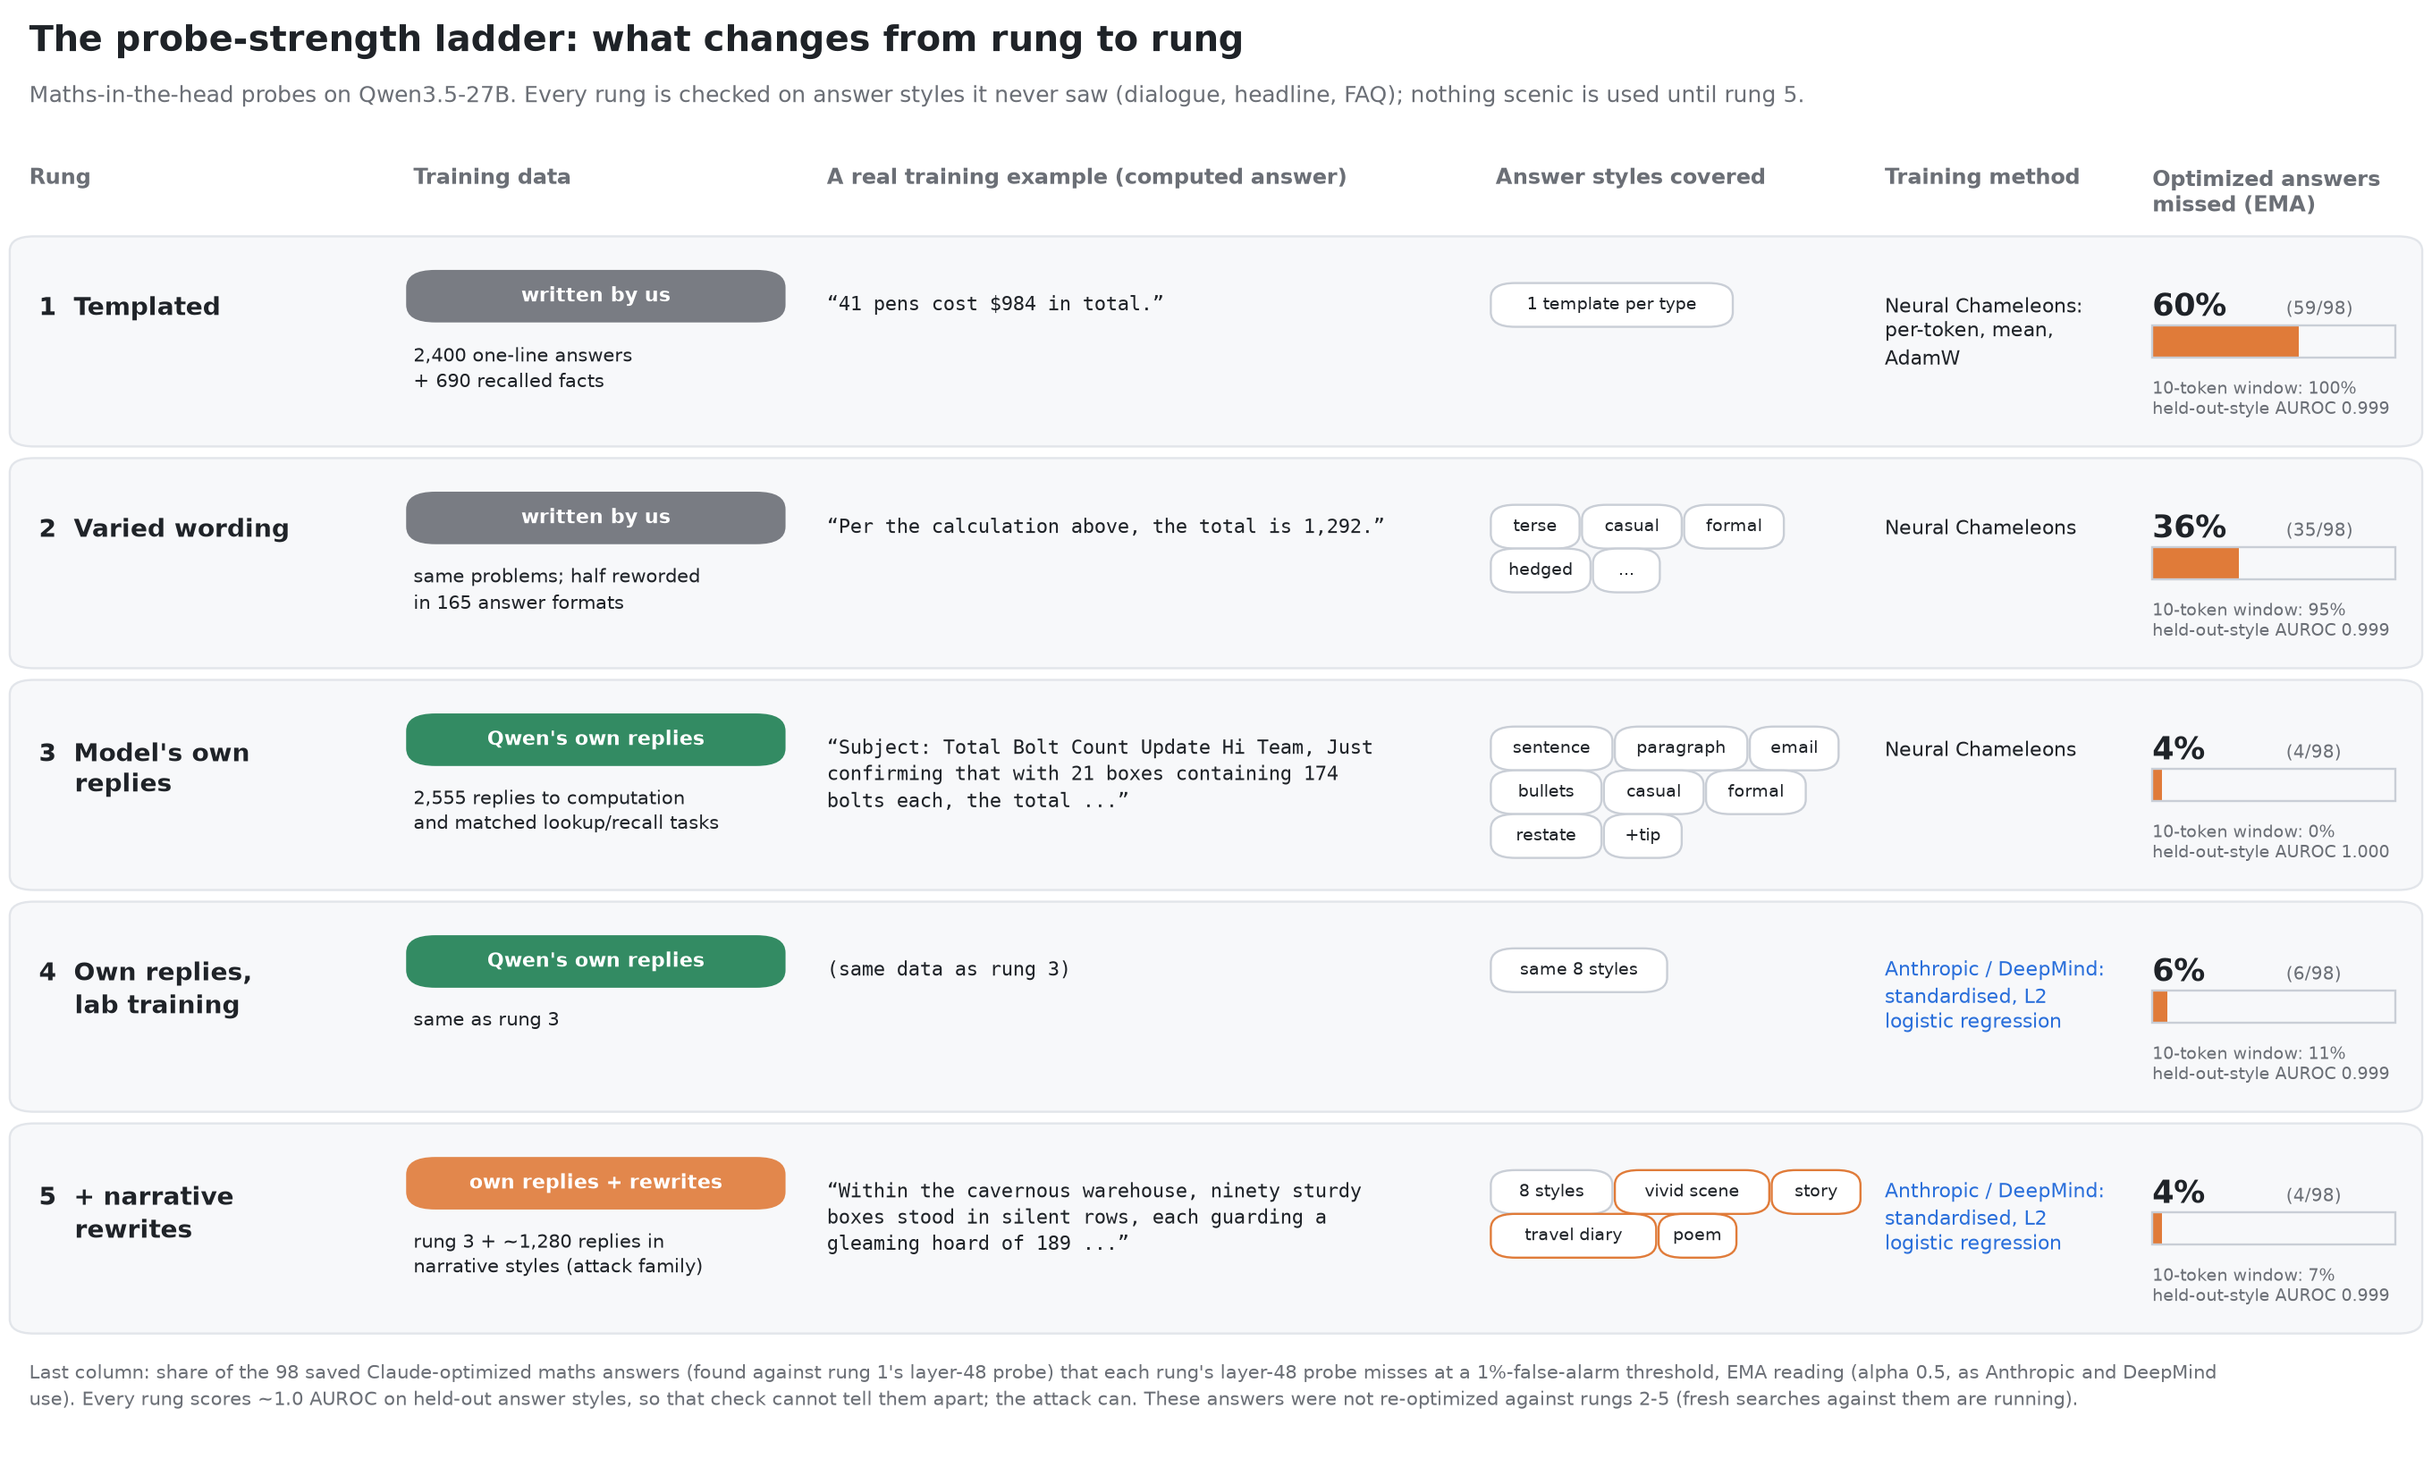
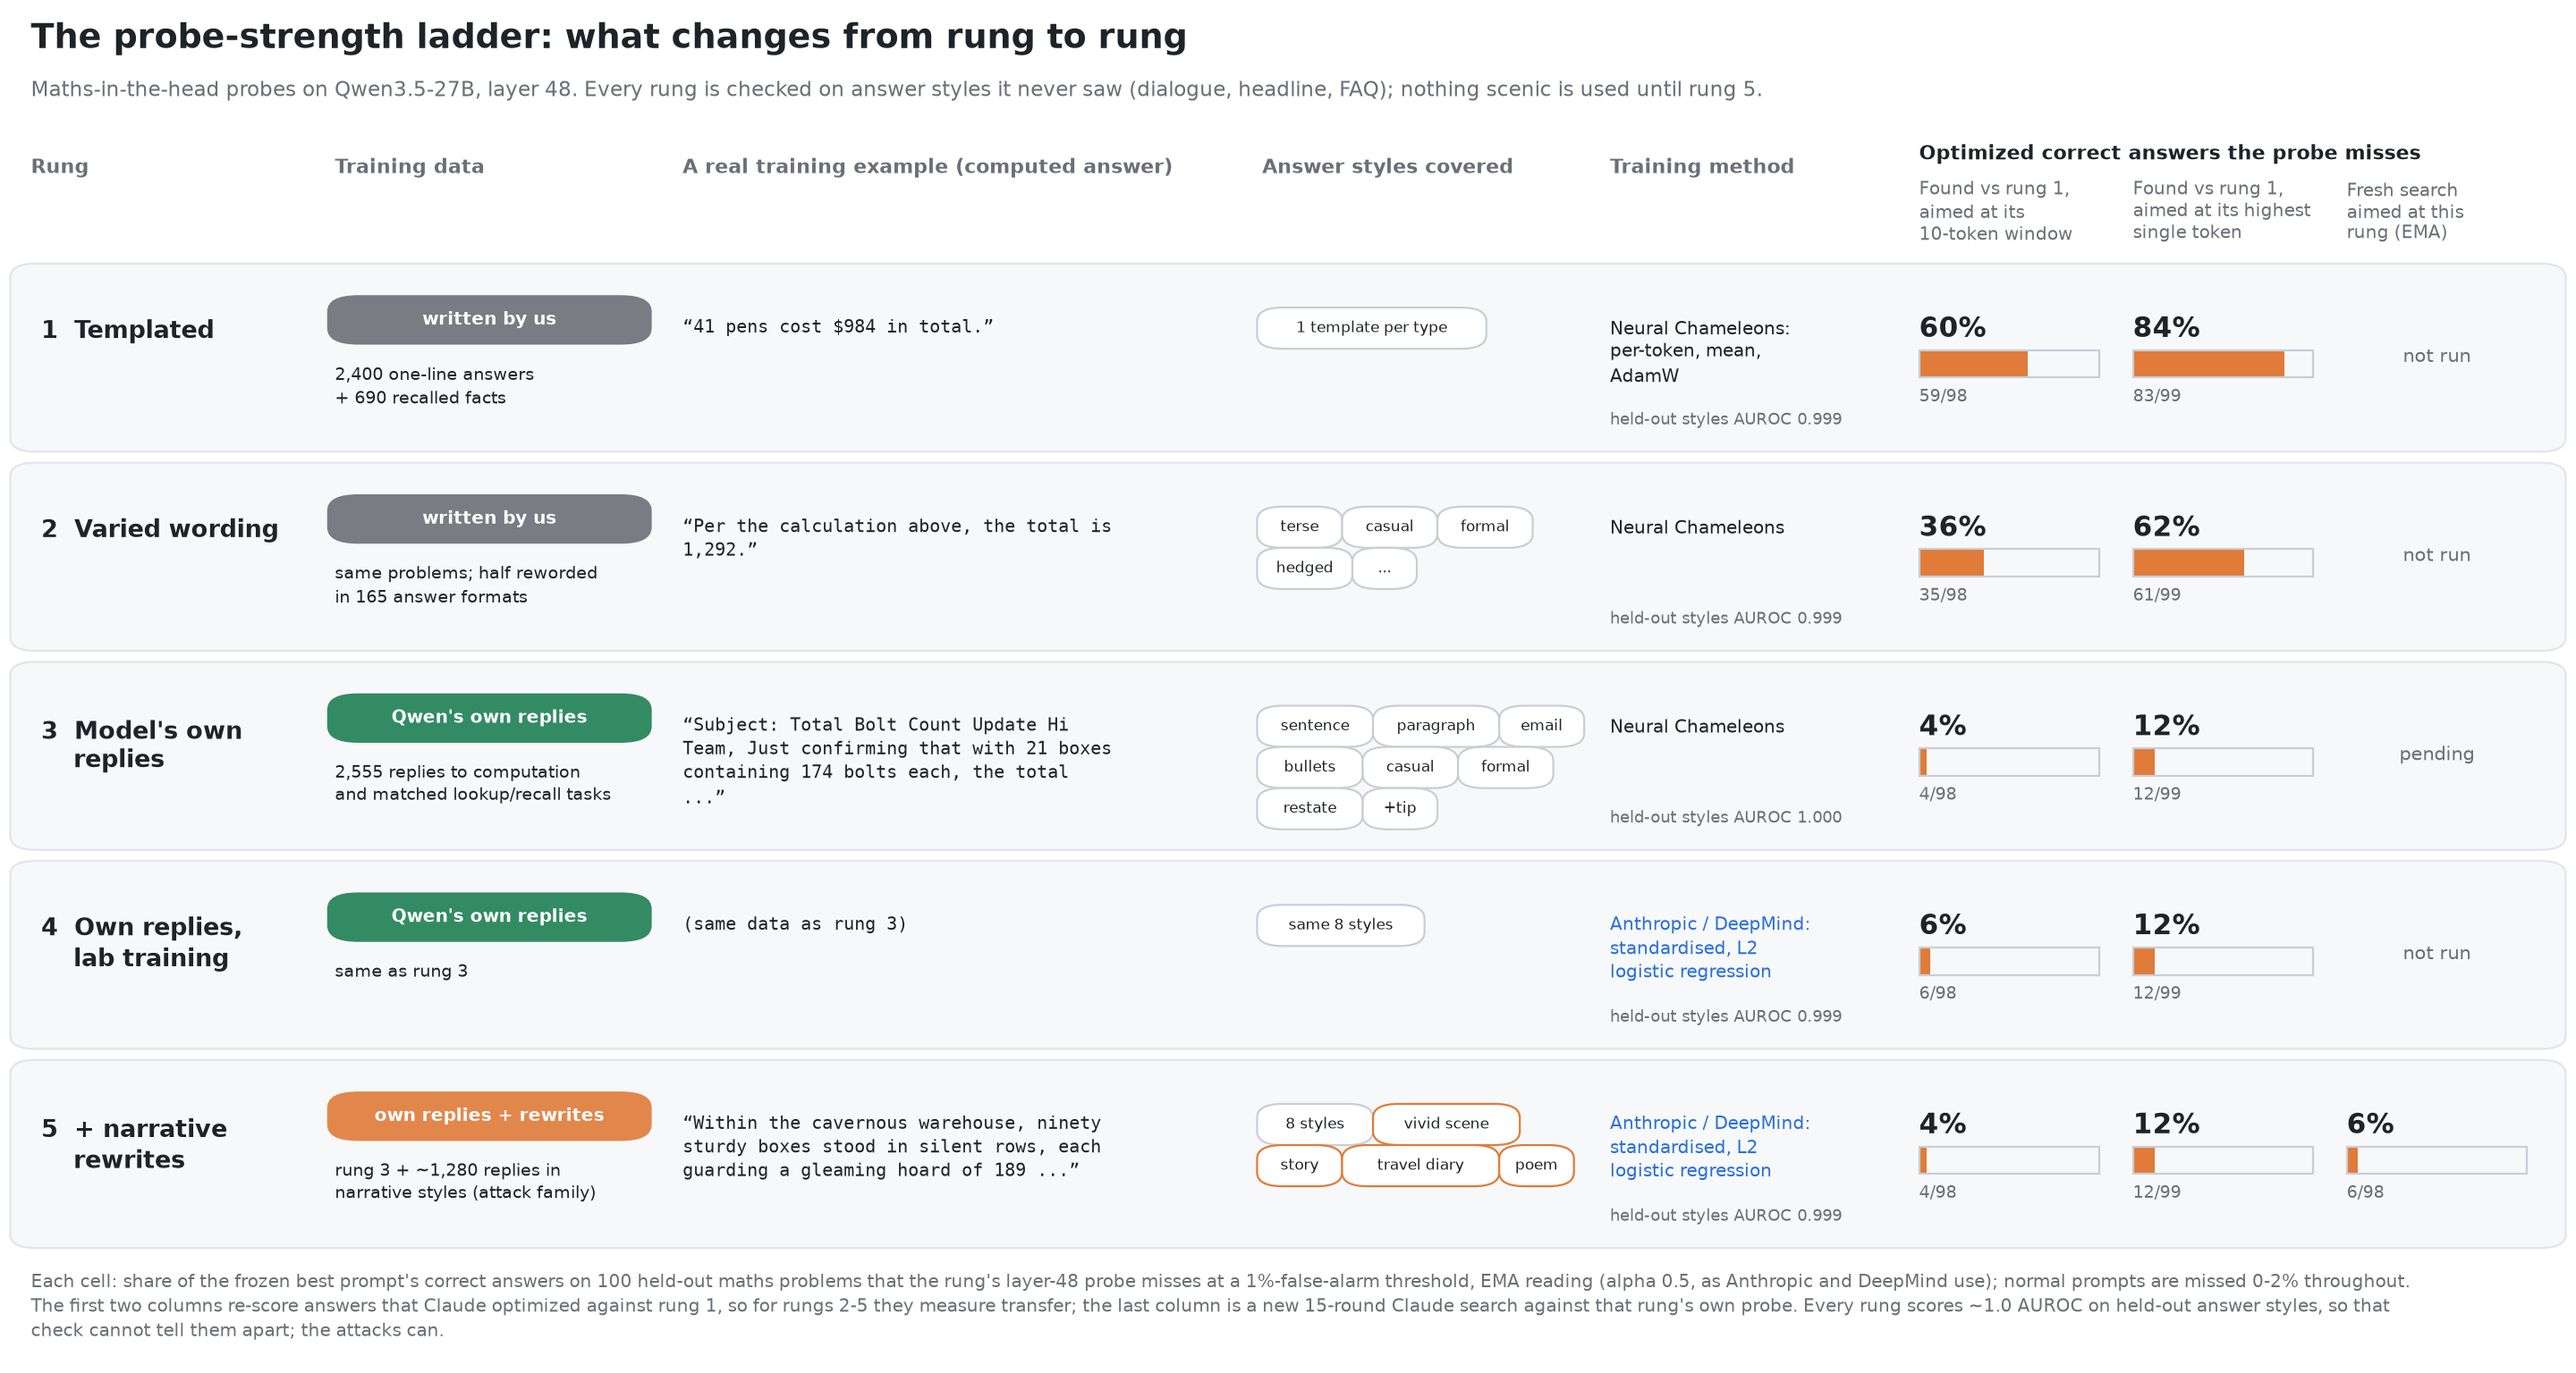
Ladder figure: both transfer attacks and fresh searches per rung

diff --git a/src/probe_evasion/rungs_figure.py b/src/probe_evasion/rungs_figure.py
@@ -16,8 +16,12 @@ from probe_evasion.proposal_figures import BLUE, GREY, INK, ORANGE
 
 DATA = Path("data/concepts")
 PROBES = Path("results/concept_probes")
-LADDER_RUN = Path("results/gepa/qwen35_maths_window_L48_20261007-173549")  # saved scenic answers, re-scored per rung
+GEPA = Path("results/gepa")
+WINDOW_ATTACK = GEPA / "qwen35_maths_window_L48_20261007-173549"  # both found against rung 1, then re-scored per rung
+MAX_ATTACK = GEPA / "qwen35_maths_max_L48_20261007-180401"
 LAYER = 48
+BAR_W = 0.07
+RESULT_X = (0.745, 0.828, 0.911)
 OWN = "#1d7f52"
 RUNGS = [  # name, data source label, source colour, size note, styles, method, probe file, sample source
     ("1  Templated", "written by us", GREY, "2,400 one-line answers\n+ 690 recalled facts", ["1 template per type"],
@@ -31,6 +35,18 @@ RUNGS = [  # name, data source label, source colour, size note, styles, method, 
     ("5  + narrative\n    rewrites", "own replies + rewrites", ORANGE, "rung 3 + ~1,280 replies in\nnarrative styles (attack family)",
      ["8 styles", "vivid scene", "story", "travel diary", "poem"], "Anthropic / DeepMind:\nstandardised, L2\nlogistic regression", "qwen35_maths_rewrites_lr", "narrative"),
 ]
+ALL = [r[6] for r in RUNGS]
+ATTACKS = [  # column header, {probe file: run whose optimized answers are scored with it}
+    ("Found vs rung 1,\naimed at its\n10-token window", {p: WINDOW_ATTACK for p in ALL}),
+    ("Found vs rung 1,\naimed at its highest\nsingle token", {p: MAX_ATTACK for p in ALL}),
+    ("Fresh search\naimed at this\nrung (EMA)", {"qwen35_maths_onpolicy": GEPA / "qwen35_maths_ema_onpolicy_L48_20261007-190705",
+                                                 "qwen35_maths_rewrites_lr": GEPA / "qwen35_maths_ema_rewrites_L48_20261007-190705"}),
+]
+FOOTNOTE = ("Each cell: share of the frozen best prompt's correct answers on 100 held-out maths problems that the rung's layer-48 probe misses "
+            "at a 1%-false-alarm threshold, EMA reading (alpha 0.5, as Anthropic and DeepMind use); normal prompts are missed 0-2% throughout. "
+            "The first two columns re-score answers that Claude optimized against rung 1, so for rungs 2-5 they measure transfer; the last "
+            "column is a new 15-round Claude search against that rung's own probe. Every rung scores ~1.0 AUROC on held-out answer styles, "
+            "so that check cannot tell them apart; the attacks can.")
 
 
 def jl(p: Path) -> list[dict]:
@@ -55,13 +71,17 @@ def sample(kind: str) -> str:
     return textwrap.shorten(reply, 120, placeholder=" ...")
 
 
-def missed(probe_file: str, reading: str) -> tuple[int, int] | None:
-    path = LADDER_RUN / f"ladder_{probe_file}.json"
-    if not path.exists():
-        return None
-    res = json.loads(path.read_text())["results"][f"maths@L{LAYER}"]
-    k, n = (int(x) for x in res[reading]["missed"]["optimized"].split("/"))
-    return k, n
+def missed(run: Path, probe_file: str) -> tuple[int, int] | None:
+    """EMA misses, under one rung's probe, of the optimized answers saved in `run`: the re-scored ladder file, or for a
+    fresh search aimed at this rung (run with the current EMA) its own held-out test."""
+    path = run / f"ladder_{probe_file}.json"
+    if path.exists():
+        k, n = (int(x) for x in json.loads(path.read_text())["results"][f"maths@L{LAYER}"]["ema"]["missed"]["optimized"].split("/"))
+        return k, n
+    if run.name.startswith("qwen35_maths_ema_") and (run / "summary.json").exists():
+        arm = json.loads((run / "summary.json").read_text())["arms"]["optimized"]
+        return arm["missed_ema"], arm["present"]
+    return None
 
 
 def heldout_auroc(probe_file: str) -> float | None:
@@ -69,58 +89,61 @@ def heldout_auroc(probe_file: str) -> float | None:
     return json.loads(path.read_text())[f"maths@L{LAYER}"]["ema"] if path.exists() else None
 
 
+def bar(ax, x: float, y: float, result: tuple[int, int] | None, label_if_none: str) -> None:
+    if result is None:
+        ax.text(x + 0.035, y - 0.06, label_if_none, fontsize=9.5, color=GREY, ha="center", va="center")
+        return
+    share = result[0] / result[1]
+    for width, face, edge in ((BAR_W * share, ORANGE, "none"), (BAR_W, "none", "#c9ced6")):
+        ax.add_patch(FancyBboxPatch((x, y - 0.075), width, 0.02, boxstyle="square,pad=0", transform=ax.transAxes,
+                                    facecolor=face, edgecolor=edge))
+    ax.text(x, y - 0.03, f"{100 * share:.0f}%", fontsize=14, color=INK, fontweight="bold", va="top")
+    ax.text(x, y - 0.083, f"{result[0]}/{result[1]}", fontsize=8.5, color=GREY, va="top")
+
+
 def main(out: Path = Path("share/probe_rungs.png")) -> Path:
-    fig = plt.figure(figsize=(16, 9.6), dpi=170)
+    fig = plt.figure(figsize=(18, 9.6), dpi=160)
     ax = fig.add_axes([0, 0, 1, 1])
     ax.axis("off")
     ax.text(0.012, 0.965, "The probe-strength ladder: what changes from rung to rung", fontsize=17, fontweight="bold", color=INK)
-    ax.text(0.012, 0.93, "Maths-in-the-head probes on Qwen3.5-27B. Every rung is checked on answer styles it never saw "
+    ax.text(0.012, 0.93, "Maths-in-the-head probes on Qwen3.5-27B, layer 48. Every rung is checked on answer styles it never saw "
             "(dialogue, headline, FAQ); nothing scenic is used until rung 5.", fontsize=10.5, color=GREY)
-    cols = [(0.012, "Rung"), (0.17, "Training data"), (0.34, "A real training example (computed answer)"), (0.615, "Answer styles covered"),
-            (0.775, "Training method"), (0.885, f"Optimized answers\nmissed (EMA)")]
-    footnote = (f"Last column: share of the 98 saved Claude-optimized maths answers (found against rung 1's layer-{LAYER} probe) that each "
-                f"rung's layer-{LAYER} probe misses at a 1%-false-alarm threshold, EMA reading (alpha 0.5, as Anthropic and DeepMind use). "
-                "Every rung scores ~1.0 AUROC on held-out answer styles, so that check cannot tell them apart; the attack can. "
-                "These answers were not re-optimized against rungs 2-5 (fresh searches against them are running).")
+    cols = [(0.012, "Rung"), (0.13, "Training data"), (0.265, "A real training example (computed answer)"), (0.49, "Answer styles covered"),
+            (0.625, "Training method")]
     for x, h in cols:
         ax.text(x, 0.885, h, fontsize=10, color=GREY, fontweight="bold", va="top")
-    row_h = 0.152
+    ax.text(0.745, 0.895, "Optimized correct answers the probe misses", fontsize=10, color=INK, fontweight="bold", va="top")
+    for x, (head, _) in zip(RESULT_X, ATTACKS):
+        ax.text(x, 0.87, head, fontsize=8.8, color=GREY, va="top", linespacing=1.25)
+    row_h = 0.145
     for i, (name, source, colour, size, styles, method, probe_file, kind) in enumerate(RUNGS):
-        y = 0.83 - i * row_h
+        y = 0.80 - i * row_h
         ax.add_patch(FancyBboxPatch((0.006, y - row_h + 0.018), 0.988, row_h - 0.012, boxstyle="round,pad=0.002,rounding_size=0.01",
                                     transform=ax.transAxes, facecolor="#f7f8fa", edgecolor="#e2e5ea"))
         ax.text(0.016, y - 0.03, name, fontsize=12, fontweight="bold", color=INK, va="top", linespacing=1.3)
-        ax.add_patch(FancyBboxPatch((0.17, y - 0.048), 0.15, 0.03, boxstyle="round,pad=0.003,rounding_size=0.012",
+        ax.add_patch(FancyBboxPatch((0.13, y - 0.048), 0.12, 0.03, boxstyle="round,pad=0.003,rounding_size=0.012",
                                     transform=ax.transAxes, facecolor=colour, edgecolor="none", alpha=0.9))
-        ax.text(0.245, y - 0.033, source, fontsize=9.5, color="white", ha="center", va="center", fontweight="bold")
-        ax.text(0.17, y - 0.065, size, fontsize=9, color=INK, va="top", linespacing=1.3)
+        ax.text(0.19, y - 0.033, source, fontsize=9, color="white", ha="center", va="center", fontweight="bold")
+        ax.text(0.13, y - 0.065, size, fontsize=8.6, color=INK, va="top", linespacing=1.3)
         example = "(same data as rung 3)" if probe_file.endswith("onpolicy_lr") else f"“{sample(kind)}”"
-        ax.text(0.34, y - 0.03, "\n".join(textwrap.wrap(example, 48)), fontsize=9.2, color=INK, va="top",
+        ax.text(0.265, y - 0.03, "\n".join(textwrap.wrap(example, 40)), fontsize=8.8, color=INK, va="top",
                 family="monospace", linespacing=1.35)
-        cx, cy = 0.615, y - 0.03
+        cx, cy = 0.49, y - 0.03
         for s in styles:
-            w = 0.0045 * len(s) + 0.01
-            if cx + w > 0.765:
-                cx, cy = 0.615, cy - 0.03
+            w = 0.004 * len(s) + 0.009
+            if cx + w > 0.615:
+                cx, cy = 0.49, cy - 0.03
             ax.add_patch(FancyBboxPatch((cx, cy - 0.022), w, 0.026, boxstyle="round,pad=0.002,rounding_size=0.01",
                                         transform=ax.transAxes, facecolor="white", edgecolor=ORANGE if s in ("vivid scene", "story", "travel diary", "poem") else "#c9ced6"))
-            ax.text(cx + w / 2, cy - 0.009, s, fontsize=8, color=INK, ha="center", va="center")
-            cx += w + 0.005
-        ax.text(0.775, y - 0.03, method, fontsize=9.5, color=BLUE if "Anthropic" in method else INK, va="top", linespacing=1.3)
-        ema, win, auc = missed(probe_file, "ema"), missed(probe_file, "window"), heldout_auroc(probe_file)
-        if ema is None:
-            ax.text(0.935, y - 0.06, "pending", fontsize=12, color=GREY, ha="center", va="center")
-            continue
-        share = ema[0] / ema[1]
-        ax.add_patch(FancyBboxPatch((0.885, y - 0.075), 0.1 * share, 0.022, boxstyle="square,pad=0", transform=ax.transAxes,
-                                    facecolor=ORANGE, edgecolor="none"))
-        ax.add_patch(FancyBboxPatch((0.885, y - 0.075), 0.1, 0.022, boxstyle="square,pad=0", transform=ax.transAxes,
-                                    facecolor="none", edgecolor="#c9ced6"))
-        ax.text(0.885, y - 0.03, f"{100 * share:.0f}%", fontsize=15, color=INK, fontweight="bold", va="top")
-        ax.text(0.94, y - 0.036, f"({ema[0]}/{ema[1]})", fontsize=8.5, color=GREY, va="top")
-        ax.text(0.885, y - 0.088, f"10-token window: {100 * win[0] / win[1]:.0f}%\nheld-out-style AUROC " + (f"{auc:.3f}" if auc else "pending"), fontsize=8,
-                color=GREY, va="top", linespacing=1.3)
-    ax.text(0.012, 0.068, "\n".join(textwrap.wrap(footnote, 225)), fontsize=9, color=GREY, va="top", linespacing=1.4)
+            ax.text(cx + w / 2, cy - 0.009, s, fontsize=7.6, color=INK, ha="center", va="center")
+            cx += w + 0.004
+        auc = heldout_auroc(probe_file)
+        ax.text(0.625, y - 0.03, method, fontsize=9.2, color=BLUE if "Anthropic" in method else INK, va="top", linespacing=1.3)
+        ax.text(0.625, y - 0.1, f"held-out styles AUROC {auc:.3f}" if auc else "", fontsize=8, color=GREY, va="top")
+        for x, (_, runs) in zip(RESULT_X, ATTACKS):
+            run = runs.get(probe_file)
+            bar(ax, x, y, missed(run, probe_file) if run else None, "pending" if run else "not run")
+    ax.text(0.012, 0.075, "\n".join(textwrap.wrap(FOOTNOTE, 260)), fontsize=8.8, color=GREY, va="top", linespacing=1.4)
     fig.savefig(out)
     return out
 
